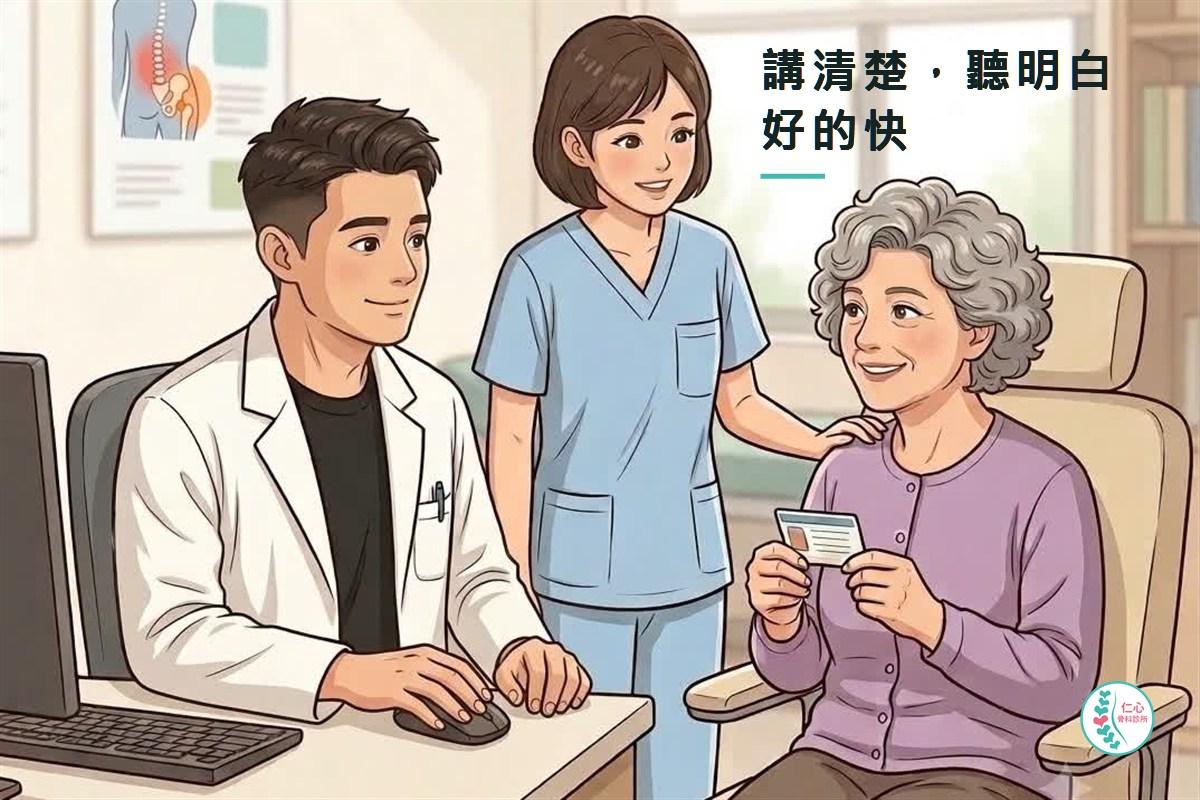
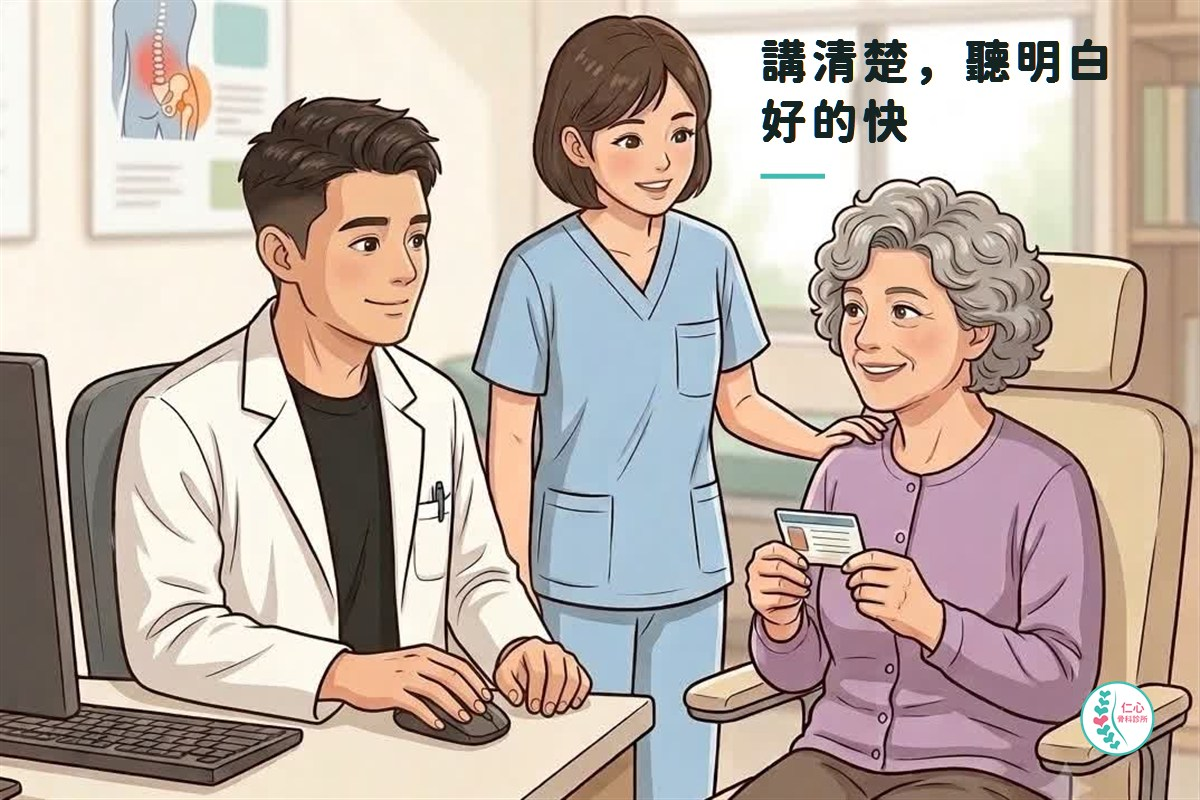
所有出圖工具改用 GenSenRounded 圓體，重出封面

Changed region(s): [[0.6167, 0.0312, 0.925, 0.1875]]

diff --git a/public/20260914-listening/index.html b/public/20260914-listening/index.html
@@ -19,7 +19,7 @@
 <meta name="post:tag"       content="仁心百態">
 <meta name="post:author"    content="林士傑醫師">
 <meta name="post:published" content="2026-09-14">
-<meta name="post:updated"   content="2026-09-15">
+<meta name="post:updated"   content="2026-09-16">
 <meta name="post:counter"   content="rensin-20260914-listening">
 
 <link rel="stylesheet" href="../assets/site.css?v=86ae01bf">
@@ -52,7 +52,7 @@
         <h1>講清楚，聽明白，好的快</h1>
 
         <figure class="hero-figure hero-figure--cover">
-          <img src="assets/cover.jpg?v=77d8008a"
+          <img src="assets/cover.jpg?v=8c009a86"
                width="1200" height="800" loading="eager" decoding="async" fetchpriority="high"
                alt="插畫：診間裡醫師坐在電腦前，護理師站在旁邊，一位阿嬤坐在診療椅上手裡拿著健保卡，三個人都在微笑；畫面右上角是標語「講清楚，聽明白，好的快」，右下角是仁心骨科診所標誌。">
         </figure>
@@ -63,7 +63,7 @@
       <p class="post-meta">
         <span class="author">作者：林士傑醫師</span>
         <span>發表 <time datetime="2026-09-14">2026-09-14</time></span>
-        <span>最後更新 <time data-post-updated datetime="2026-09-15">2026-09-15</time></span>
+        <span>最後更新 <time data-post-updated datetime="2026-09-16">2026-09-16</time></span>
         <span class="counter" data-counter-self="rensin-20260914-listening" hidden><b class="num">0</b> 次瀏覽</span>
       </p>
     </div>
@@ -182,7 +182,7 @@
         <h4>本站</h4>
         <ul>
           <li>作者：林士傑醫師</li>
-          <li>本文最後更新：<time data-post-updated datetime="2026-09-15">2026-09-15</time></li>
+          <li>本文最後更新：<time data-post-updated datetime="2026-09-16">2026-09-16</time></li>
         </ul>
       </div>
     </div>

diff --git a/public/index.html b/public/index.html
@@ -210,7 +210,7 @@
       <div class="card-grid">
 <!-- POSTS:START -->
         <a class="card" href="20260914-listening/" data-tag="仁心百態">
-          <span class="card-cover"><img src="20260914-listening/assets/cover.jpg?v=77d8008a" alt="" loading="lazy" decoding="async"></span>
+          <span class="card-cover"><img src="20260914-listening/assets/cover.jpg?v=8c009a86" alt="" loading="lazy" decoding="async"></span>
           <span class="card-body">
             <span class="tag">仁心百態</span>
             <h3>講清楚，聽明白，好的快</h3>
@@ -218,7 +218,7 @@
             <span class="card-foot">
               <span>林士傑醫師</span>
               <span>2026-09-14</span>
-              <span>更新 2026-09-15</span>
+              <span>更新 2026-09-16</span>
               <span class="counter" data-counter-view="rensin-20260914-listening" hidden><b class="num">0</b> 次瀏覽</span>
             </span>
           </span>
@@ -319,7 +319,7 @@
         <h4>本站</h4>
         <ul>
           <li>作者：林士傑醫師</li>
-          <li>最後更新：<span data-site-updated>2026-09-15</span></li>
+          <li>最後更新：<span data-site-updated>2026-09-16</span></li>
         </ul>
       </div>
     </div>
